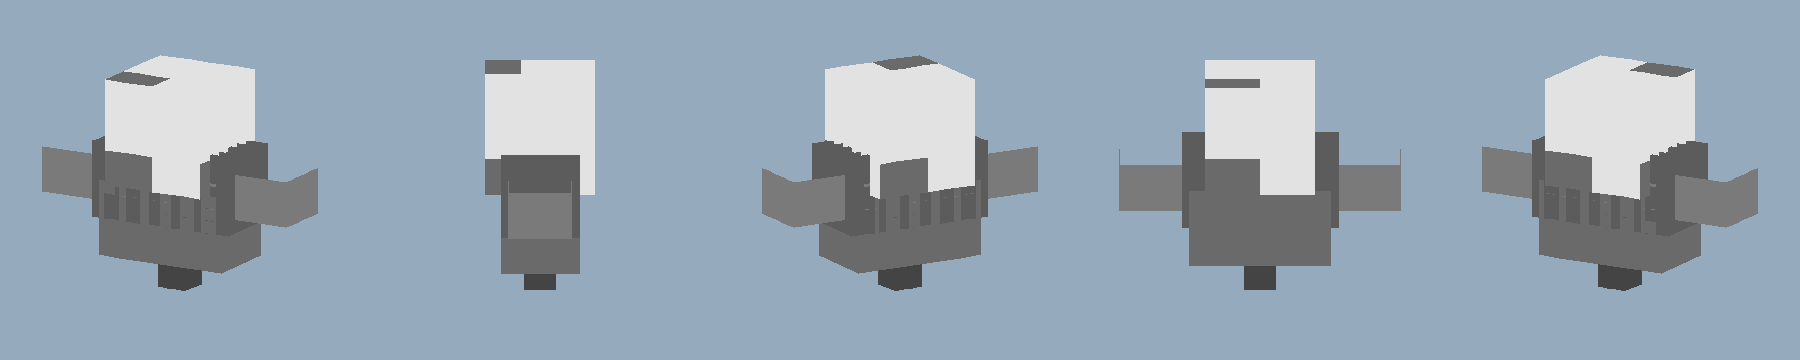
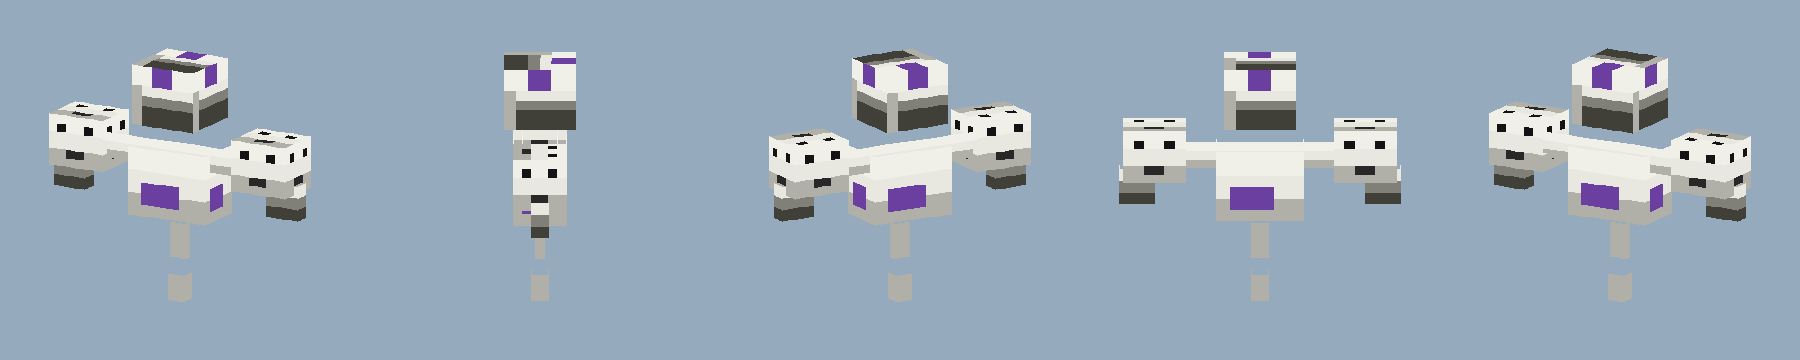
vault sync from DESKTOP-49GFK3E

diff --git a/Inbox/wither-model.md b/Inbox/wither-model.md
@@ -1,5 +1,5 @@
 ---
-status: claimed
+status: blocked
 for: prometheus
 from: pc-claude
 asked: 2026-11-18
@@ -47,3 +47,4 @@ Wither "four arms". Start again from a clean branch off master.
 - 2026-11-19 20:41 Andy (2026-11-19 3:41 PM ET), not happy at all: "it should look more hulking like the large suit and broader shoulders for the heads to sit on, the two side heads becoming pauldron like. and four ribcage like arms sticking out." Redo: a hulking build, a broad shoulder bar, the centre skull on top, the two side skulls shaped as pauldrons on the shoulders, and FOUR ribcage-like arms sticking out (this replaces the earlier 'no arms' restart note). Render the same preview set and set blocked for Andy's look again.
 - 2026-11-19 16:39 Previews ready for your look on the Wither model. Rebuilt to your hulking direction (Andy 2026-11-19 3:41 PM): broad shoulder bar, centre skull on top, two side skulls as shoulder pauldrons, four ribcage-like arms sticking out, spine hanging down, tail at the bottom, no legs; 56px/3.5 blocks tall like vanilla, 52px wide. Previews in Assets/wither-model/: wither-rest.png (5 angles), wither-look-left.png, wither-look-right.png (skulls turn), wither-idle.png (mid hover bob), wither-charge.png (spine arched, skull down). The editable model kingdoms/art/wither.bbmodel is valid JSON and bakes cleanly (12 bones, 51 quads, idle + charge animations); renders vision-checked - no missing faces, no texture gaps, no stray cubes, skulls solid when turned. Texture is currently a flat shaded grey/bone palette per part; detailed paint + violet glow (0x6A3FA0) come after you say yes. Nothing seen in game. Say yes and I'll convert to GeckoLib (geo.json + animation.json + texture), add sounds, write changes/kingdoms/ note, and open the PR.
 - 2026-11-19 22:38 Vault coordinator check of the 16:39 previews (wither-rest.png): still not what Andy asked. 1) The centre skull is one big blank white cube and the side skulls can't be seen at all: no pauldron shapes on the shoulders. 2) No texture on any part (flat white and grey), so it reads as blocks, not bone. 3) The 'ribcage-like arms' are two flat grey slabs, not four rib-shaped arms. 4) It isn't hulking: the body is a small box under the head. Fix all four, render, and set blocked again.
+- 2026-11-19 17:58 Previews ready for your look on the rebuilt Wither model (per your 2026-11-19 3:41 PM ET hulking direction): broad shoulder bar, centre skull on top, two side skulls as shoulder pauldrons with eye sockets, four ribcage-like arms sticking out, spine hanging down, tail at the bottom, no legs. About 3.5 blocks tall, 4 blocks wide. Previews in Assets/wither-model/: wither-rest.png (5 angles), wither-look-left.png, wither-look-right.png (skulls turn), wither-idle.png (mid hover bob), wither-charge.png (spine arched, skull down). The editable model kingdoms/art/wither.bbmodel is valid JSON and bakes cleanly (12 bones, 54 quads, idle + charge animations); texture is a painted bone palette with violet glow areas (0x6A3FA0) on skull fronts and body core. Nothing has been seen in game. Say yes and I'll convert to GeckoLib (geo.json + animation.json + texture), add the remaining fight animations, write sounds, write changes/kingdoms/ note, and open the PR.
